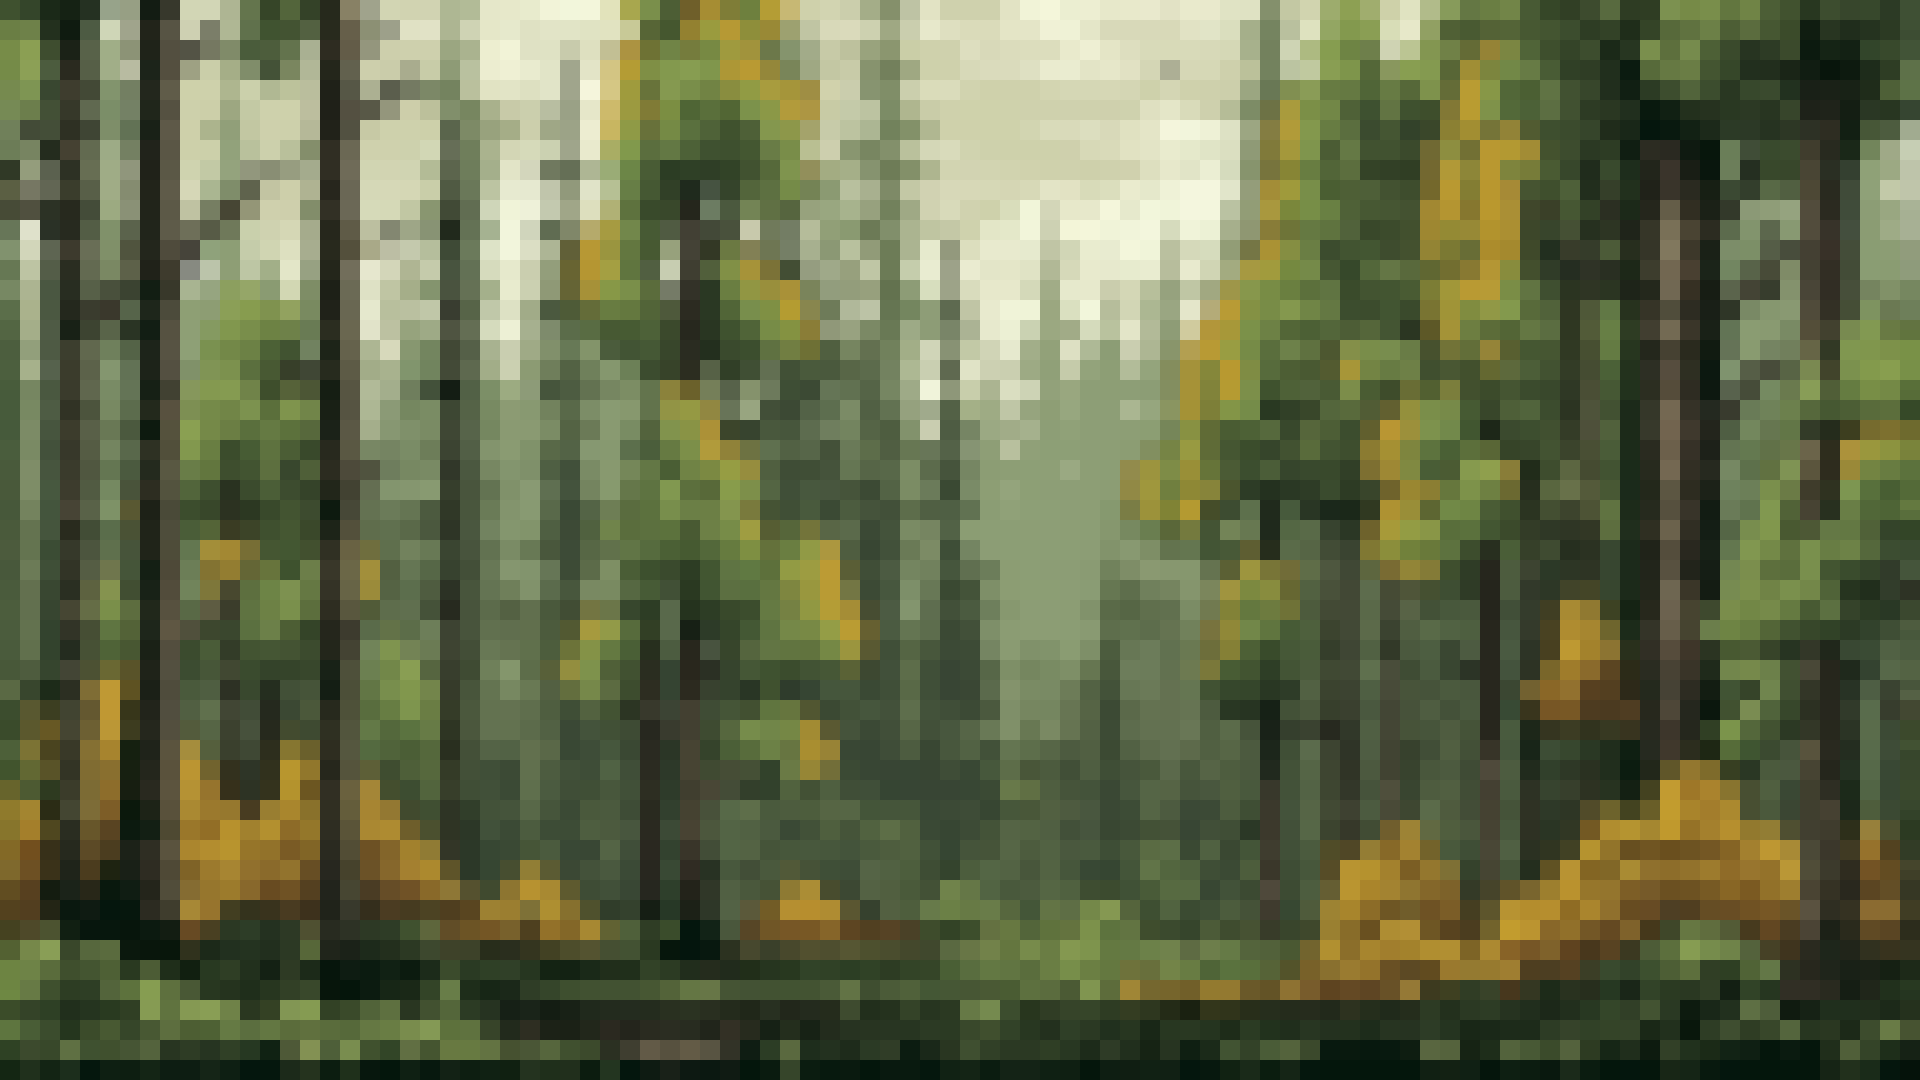
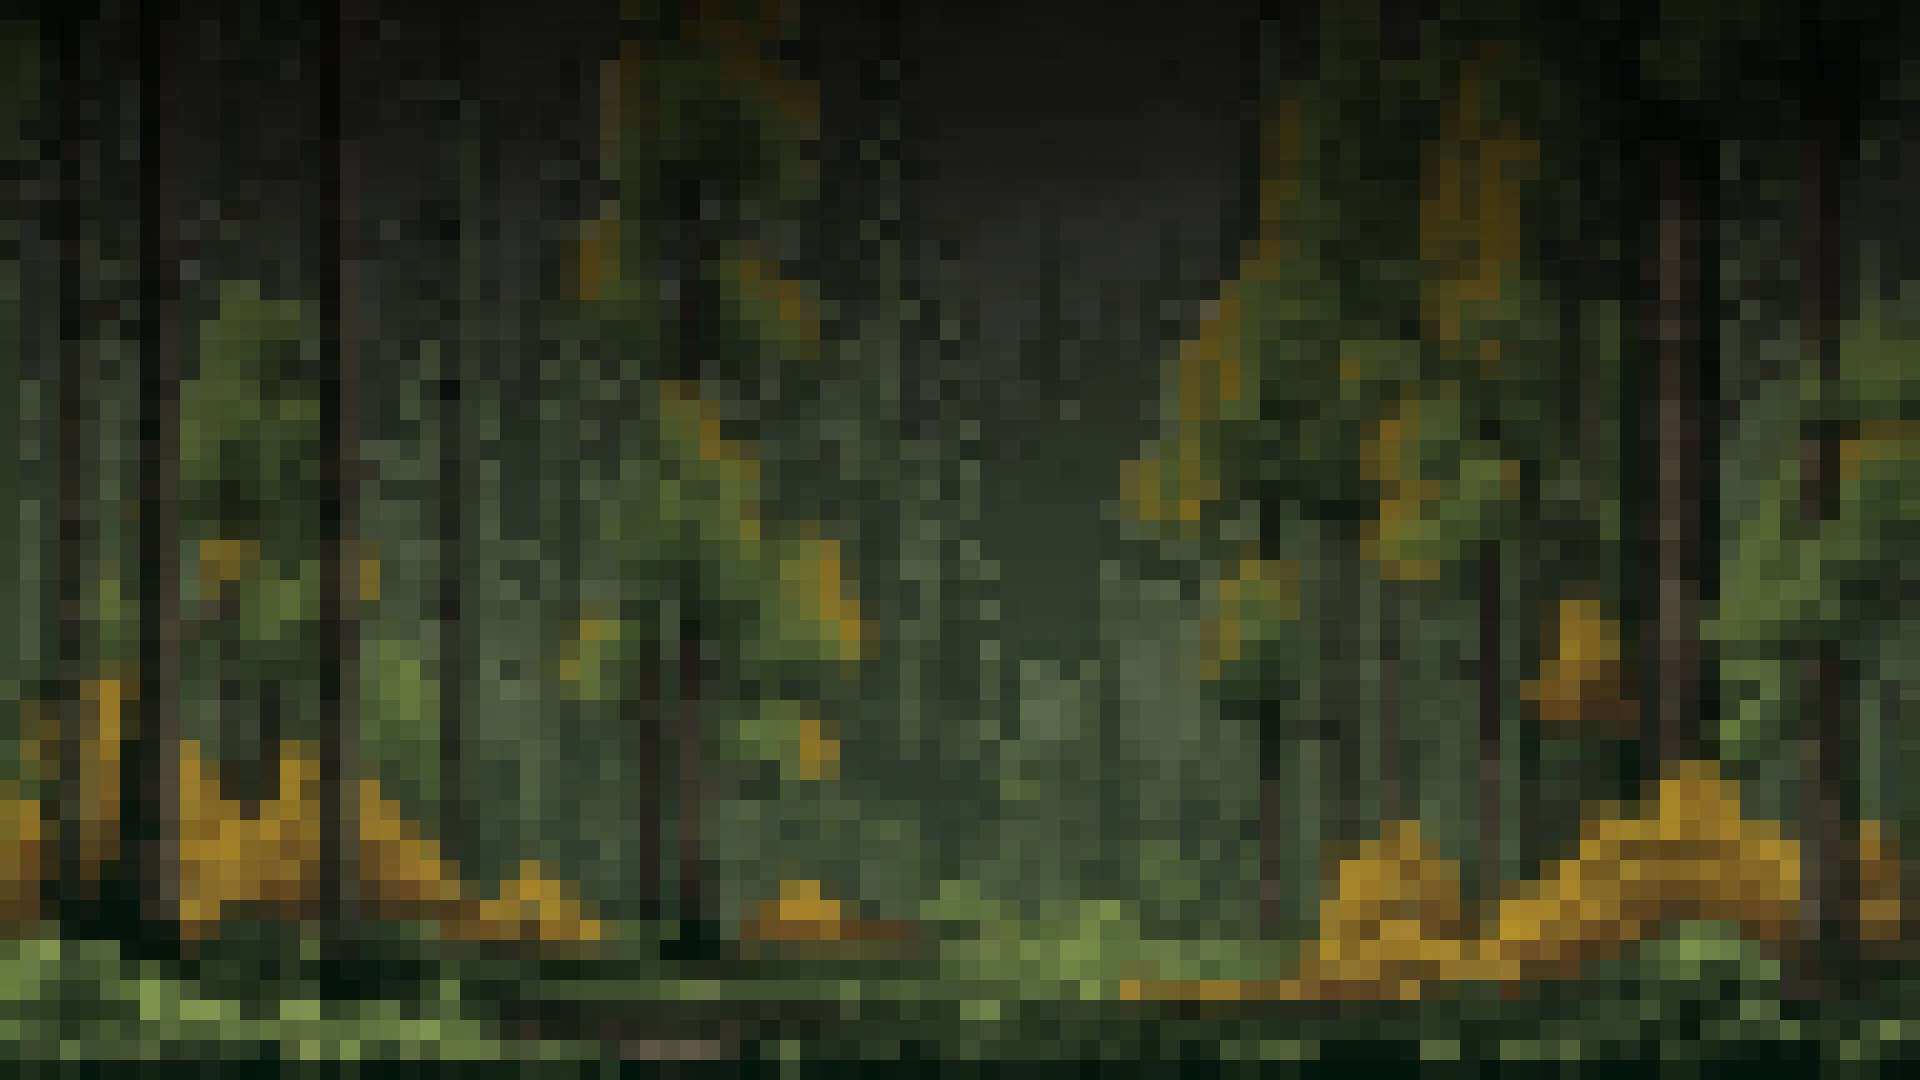
Update landing page assets and metadata
- Replaced the background image with a new version.
- Added new icon and thumbnail images for enhanced visual representation.
- Updated metadata in layout.tsx to reference the new icon and thumbnail images for improved social sharing and branding.

diff --git a/src/app/layout.tsx b/src/app/layout.tsx
@@ -4,12 +4,15 @@ import "./globals.css";
 export const metadata: Metadata = {
   title: "Dynamics Explorer",
   description: "Start your journey to the cloud!",
+  icons: {
+    icon: "/landing/images/explorer-ICON.png",
+  },
   openGraph: {
     title: "Dynamics Explorer",
     description: "Start your journey to the cloud!",
     images: [
       {
-        url: "/landing/images/Dynamics explorer.png",
+        url: "/landing/images/Thumbnail.png",
         width: 1200,
         height: 630,
         alt: "Dynamics Explorer",
@@ -21,7 +24,7 @@ export const metadata: Metadata = {
     card: "summary_large_image",
     title: "Dynamics Explorer",
     description: "Start your journey to the cloud!",
-    images: ["/landing/images/Dynamics explorer.png"],
+    images: ["/landing/images/Thumbnail.png"],
   },
 };
 
